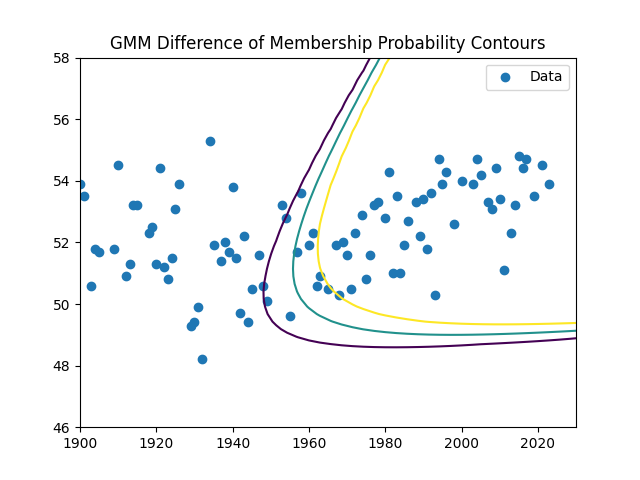
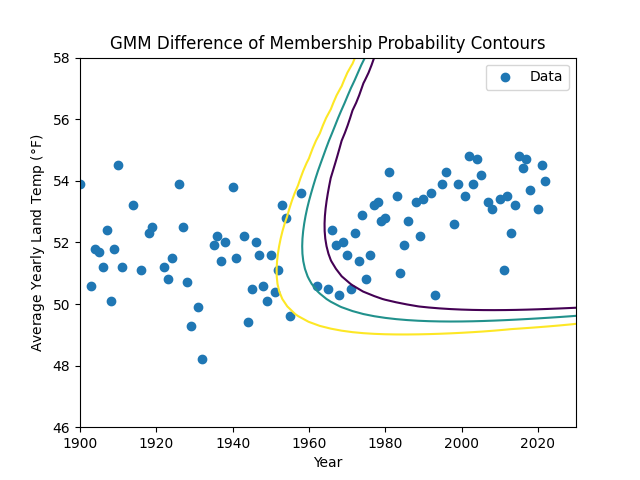
Update Plots

diff --git a/data_cleaning_2.py b/data_cleaning_2.py
@@ -215,11 +215,13 @@ CS = plt.contour(
 
 # CS = plt.pcolormesh(X, Y, Z1 * np.exp(Z3))
 
-CB = plt.colorbar(CS, shrink=0.8, extend="both")
+# CB = plt.colorbar(CS, shrink=0.8, extend="both")
 
 plt.title("GMM Component Probability Likelihood")
 plt.axis("tight")
 plt.ylim((46, 58))
+plt.ylabel("Average Yearly Land Temp ($\degree$F)")
+plt.xlabel("Year")
 plt.xlim((1900, 2030))
 plt.legend()
 plt.savefig("tex_dir/figures/gmm1.png")
@@ -236,6 +238,8 @@ plt.contour(
 plt.title("GMM Difference of Membership Probability Contours")
 plt.axis("tight")
 plt.ylim((46, 58))
+plt.ylabel("Average Yearly Land Temp ($\degree$F)")
+plt.xlabel("Year")
 plt.xlim((1900, 2030))
 plt.legend()
 plt.savefig("tex_dir/figures/gmm2.png")
@@ -252,6 +256,8 @@ plt.plot(linx, np.where(line1.predict(linx.reshape(-1, 1)) > line2.predict(linx.
 plt.title("GMM-Fit Linear Regressions")
 plt.axis("tight")
 plt.ylim((46, 58))
+plt.ylabel("Average Yearly Land Temp ($\degree$F)")
+plt.xlabel("Year")
 plt.xlim((1900, 2030))
 plt.legend()
 plt.savefig("tex_dir/figures/gmm3.png")
